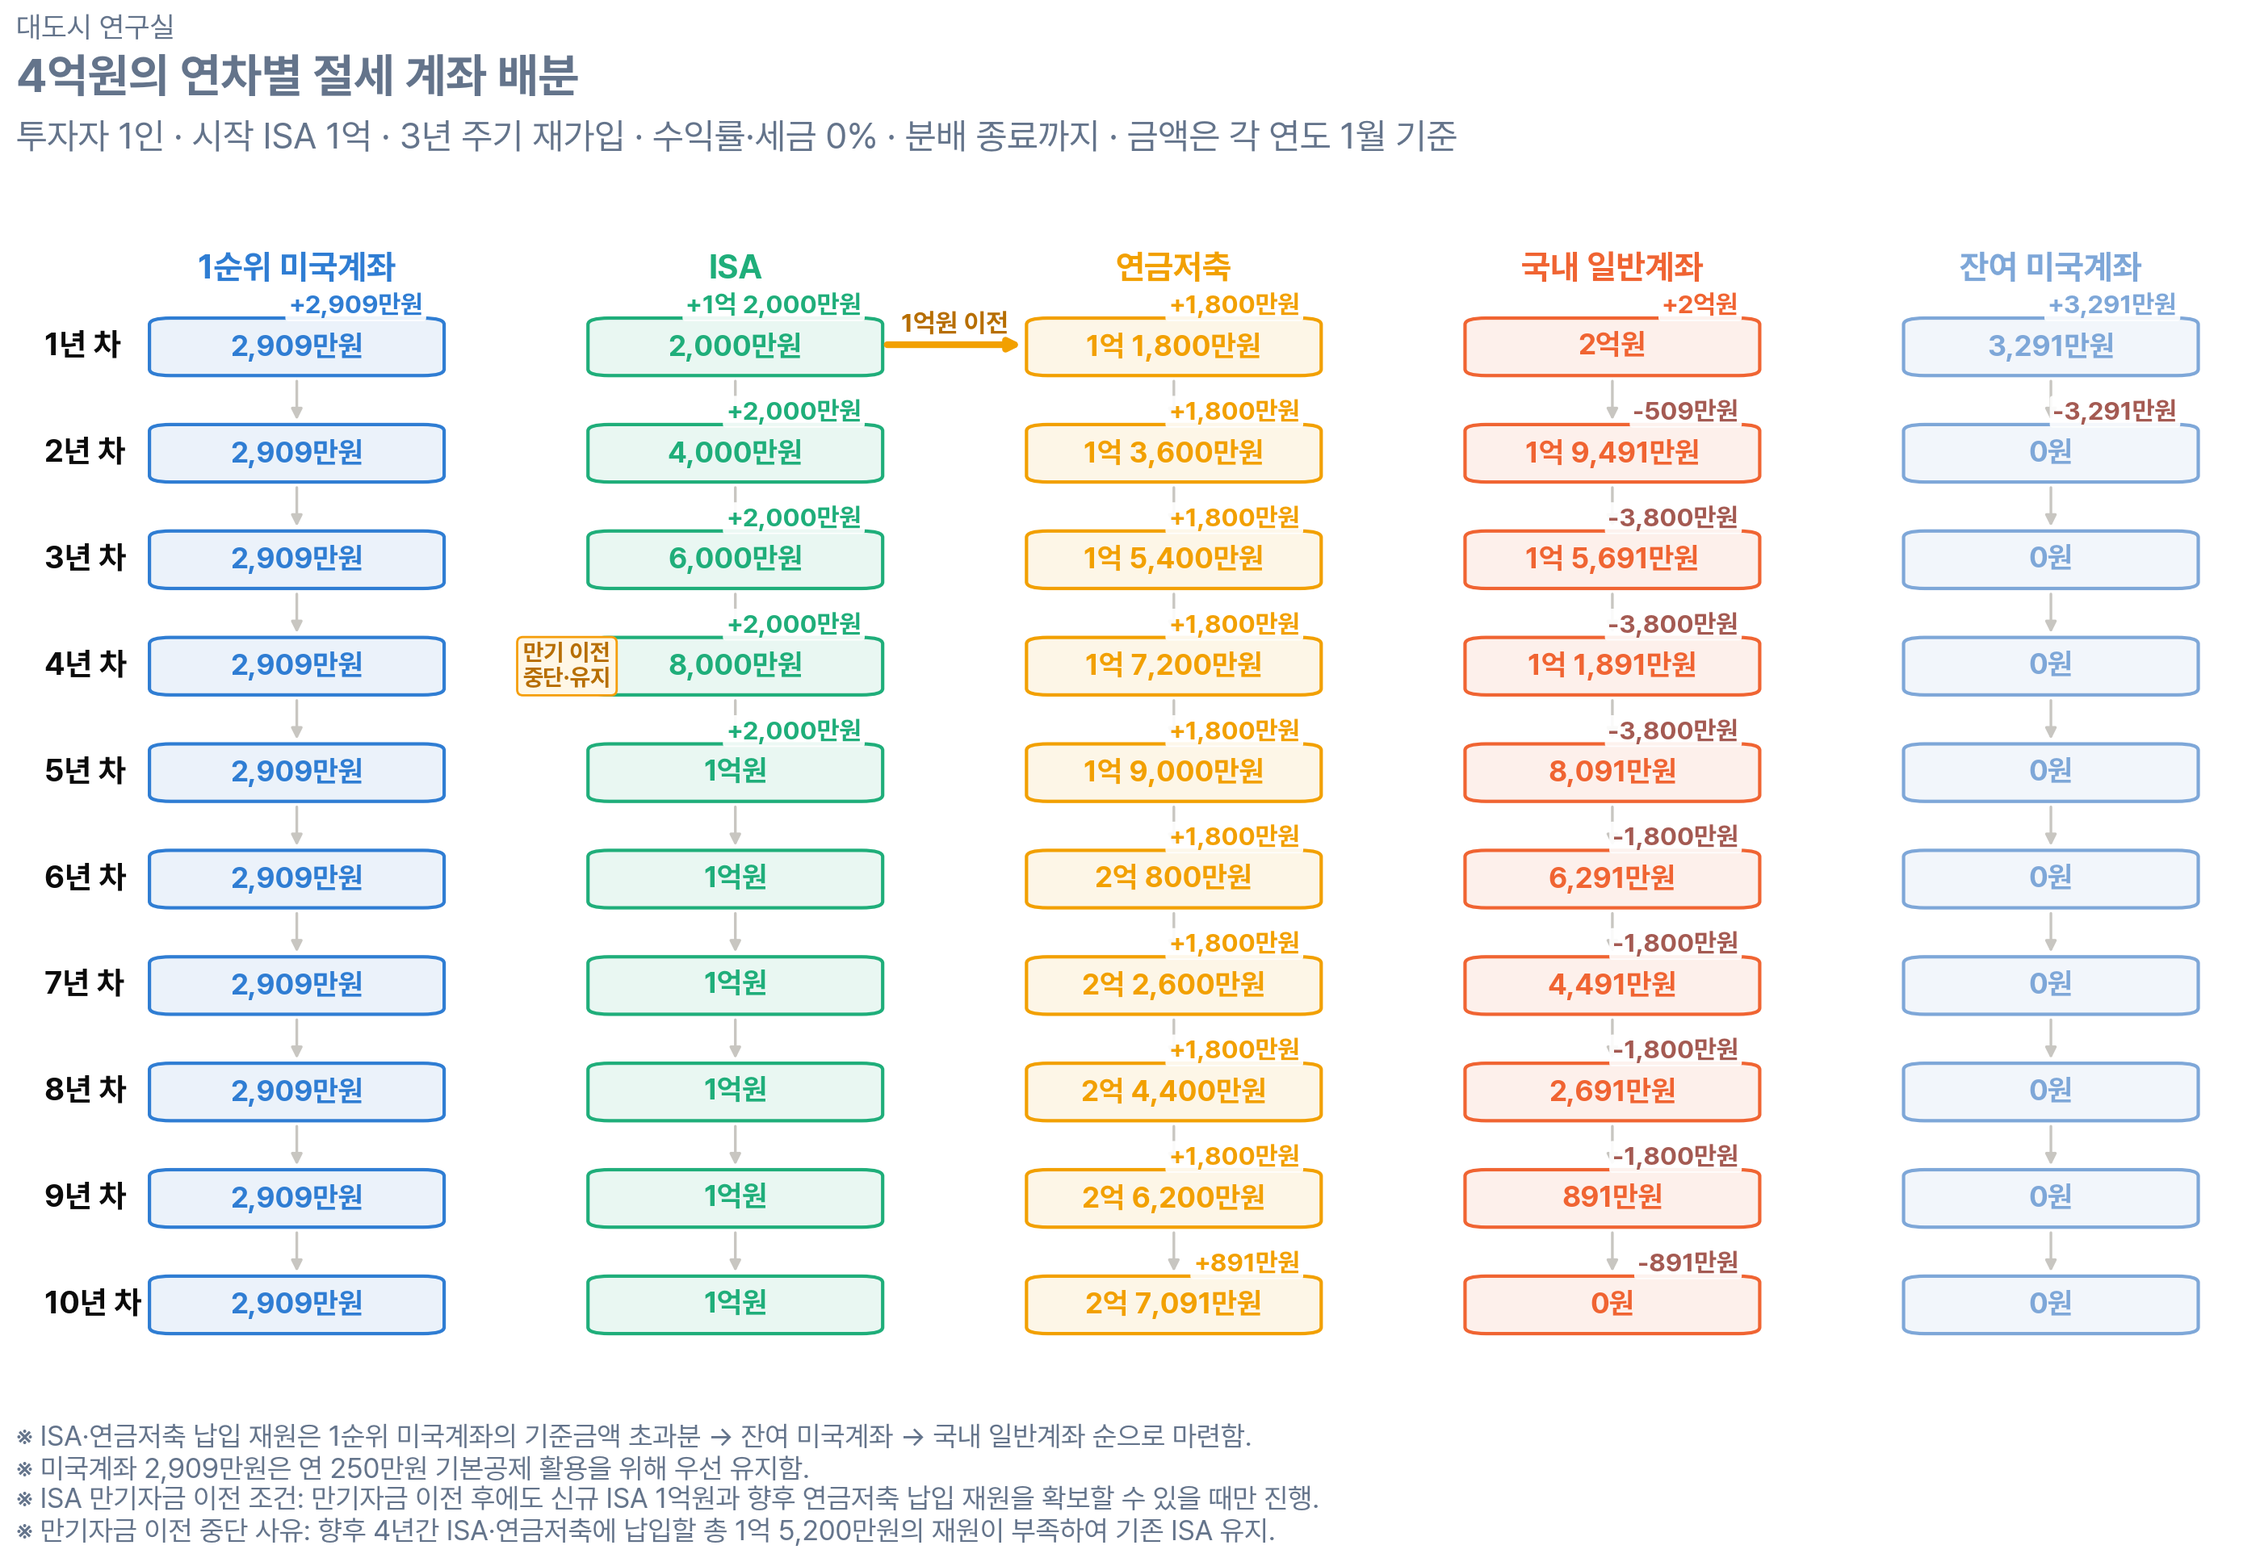
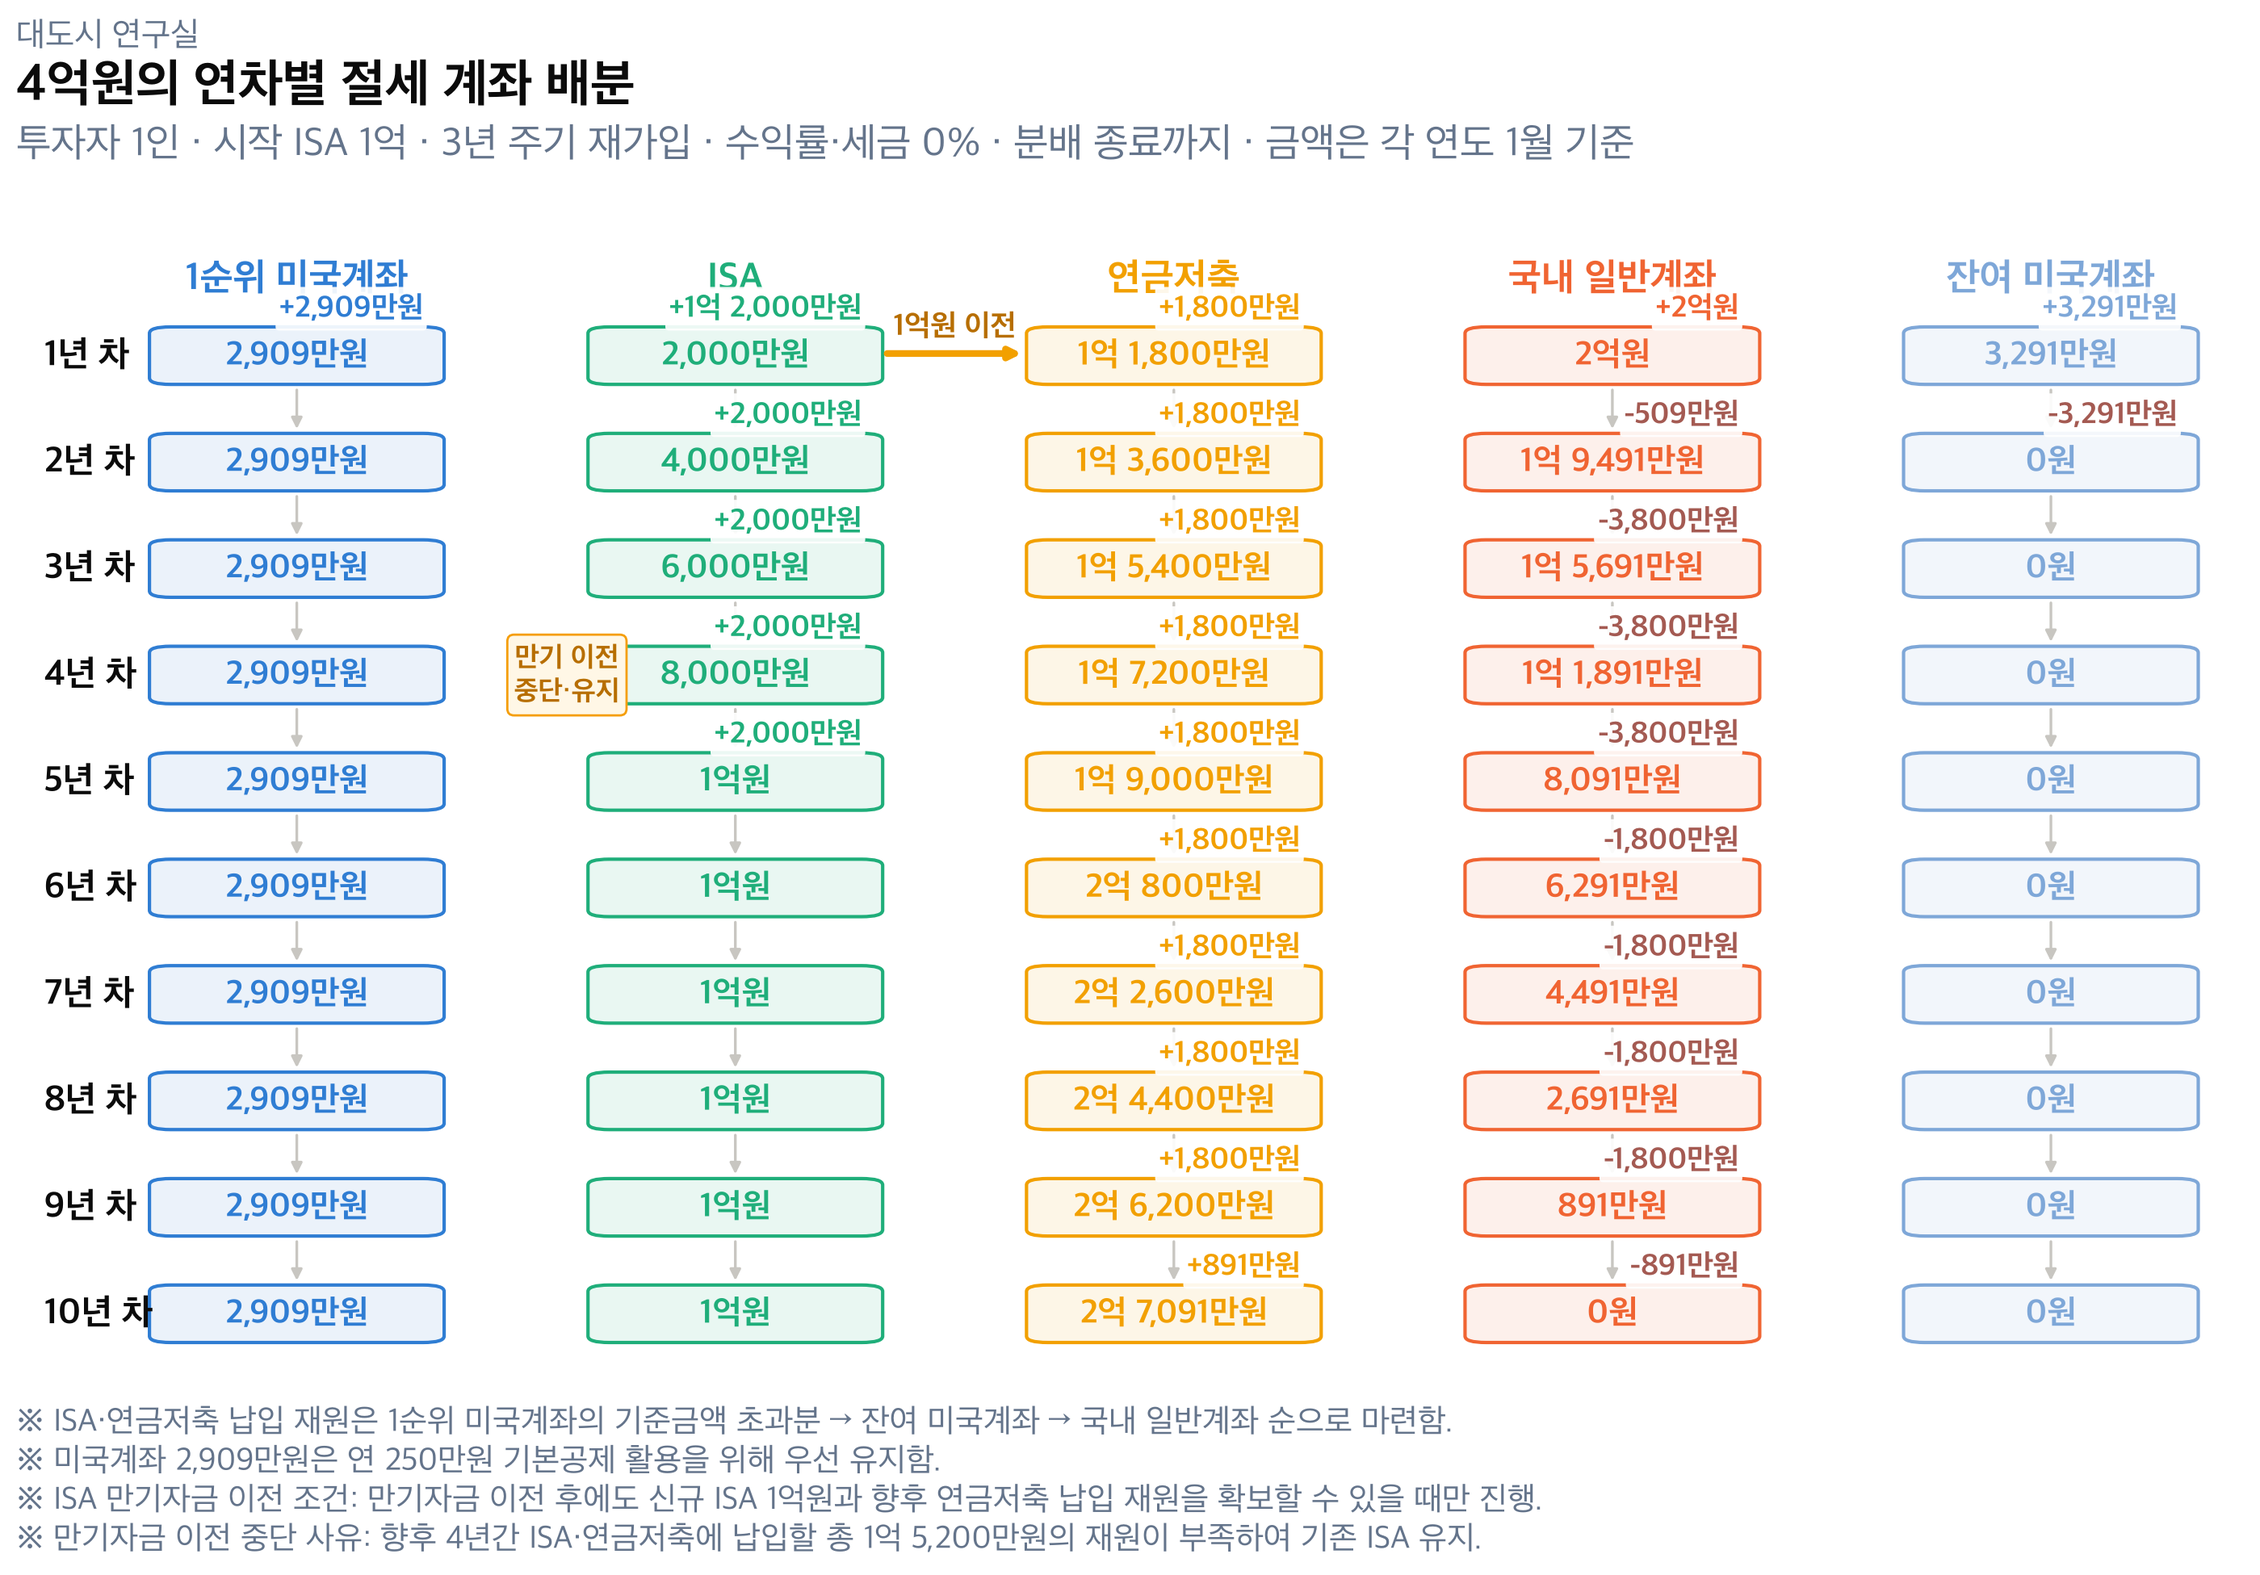
Refine ISA strategy visualizations

diff --git a/VISUALIZATION_STYLE_GUIDE.md b/VISUALIZATION_STYLE_GUIDE.md
@@ -39,16 +39,16 @@ FONT_CANDIDATES = (
 
 | 요소 | 크기 | 굵기 | 색상 |
 |---|---:|---|---|
-| 브랜드 라벨 (`대도시 연구실`) | 13pt | Regular | `#777777` |
+| 브랜드 라벨 (`대도시 연구실`) | 13pt | Regular | `#64748B` |
 | 전체 제목 | 21pt | Bold | `#0B0B0B` |
-| 부제 | 16pt | Regular | `#666666` |
+| 부제 | 16pt | Regular | `#64748B` |
 | 패널 제목 | 18pt | Bold | `#0B0B0B` |
 | X·Y축 제목 | 15pt | Regular | `#777777` |
 | X·Y축 눈금 | 15pt | Regular | `#777777` |
 | 범례 | 15pt | **Regular** | 기본 텍스트색 |
 | 막대 위 수치·선 끝 잔액·고갈 문구 | 14pt | Bold | 해당 데이터 색상 |
 | 기준선 직접 라벨 | 14pt | Regular | `#F59E0B` |
-| 하단 각주 | 13pt | Regular | `#777777` |
+| 하단 각주 | 13pt | Regular | `#64748B` |
 
 범례는 강조 대상이 아니므로 볼드를 사용하지 않는다. 핵심 데이터 라벨만 Bold로
 두어 시각적 위계를 만든다.
@@ -84,19 +84,18 @@ SURVIVAL_EDGE_COLOR = "#C5D9F4"
 BACKGROUND_COLOR = "#FFFFFF"
 GRID_COLOR = "#DEDCD6"
 TEXT_COLOR = "#0B0B0B"
-SECONDARY_TEXT_COLOR = "#666666"
+SECONDARY_TEXT_COLOR = "#64748B"
 TICK_COLOR = "#777777"
-FOOTNOTE_COLOR = "#777777"
+FOOTNOTE_COLOR = "#64748B"
 
 TABLE_HEADER_COLOR = "#2B4A75"
-TABLE_HEADER_RULE_COLOR = "#7FB3D5"
 TABLE_TEXT_COLOR = "#1E293B"
 TABLE_MUTED_TEXT_COLOR = "#64748B"
 TABLE_BORDER_COLOR = "#F0F2F5"
 TABLE_STRIPE_COLOR = "#FAFBFC"
 TABLE_HOVER_COLOR = "#EFF6FF"
-TABLE_SUMMARY_COLOR = "#E8EDF3"
-TABLE_SUMMARY_RULE_COLOR = "#94A3B8"
+TABLE_SUMMARY_COLOR = "#F1F4F8"
+TABLE_SUMMARY_RULE_COLOR = "#CBD5E1"
 ```
 
 색상의 의미:
@@ -128,6 +127,7 @@ TABLE_SUMMARY_RULE_COLOR = "#94A3B8"
 ```
 
 - 브랜드·제목·부제 세 줄은 한 덩어리로 보이도록 간격을 좁힌다.
+- 브랜드·부제·각주는 같은 청회색 `#64748B`, 제목은 검정 `#0B0B0B`을 사용한다.
 - 제목과 부제는 가깝게 두되 글자가 닿지 않게 한다.
 - 범례는 제목 영역과 그래프 사이에 두고 양쪽과 과도하게 떨어뜨리지 않는다.
 - 패널 제목은 전체 제목보다 작게 쓰며 그래프와 가깝게 둔다.
@@ -177,6 +177,10 @@ ax.legend(
 ```
 
 - 제목은 한 줄을 우선하며 중복되는 단어를 줄인다.
+- 비교 자료 제목은 `무엇을 보여주는가 | 무엇을 비교하는가` 형식을 우선한다.
+- 자료 유형이 이미 시각적으로 분명하면 제목 끝에 `표`, `그래프`, `차트`를 붙이지 않는다.
+- 한 세트로 사용하는 표와 그래프는 `ISA 운용 방식별 비교`처럼 비교 기준 문구를
+  완전히 같게 쓴다.
 - 축에는 문맥상 자연스러운 `잔액`을 우선한다.
 - 입력한 종목, 기간, 금액은 하드코딩하지 말고 동적으로 만든다.
 - `대도시 연구실`은 출처 각주가 아니라 상단 브랜드 라벨로 취급한다.
@@ -249,39 +253,66 @@ ax.annotate(
 )
 ```
 
-## 7. 표
+## 7. 연차별 자금 흐름도
 
-### 7.1 공통 레이아웃
+- 세로 방향은 시간의 흐름으로 고정하고, 연차별 같은 계좌 박스를 세로선으로 연결한다.
+- 가로 화살표는 실제 계좌 간 이전이 일어난 경우에만 사용한다. 정기 납입액을
+  계좌 사이 화살표로 표시해 자금 이동 방향처럼 보이게 하지 않는다.
+- 박스 중앙에는 해당 시점의 잔액을 크게 쓰고, 납입·인출·이전 금액은 박스 상단
+  모서리에 한 단계 작은 글씨로 표시한다.
+- 첫 시점에는 초기 배분액을 표시해 시작 잔액이 만들어진 이유를 설명한다.
+- 만기 이전처럼 중요한 이벤트는 출발 계좌에서 도착 계좌로 향하는 화살표와
+  `6,000만원 이전` 같은 금액 라벨로 표시한다.
+- 이동이 없는 연차는 숫자 변화만 보여주고 설명 문구와 화살표를 반복하지 않는다.
+- 계좌 종류는 일관된 색으로 구분한다. 같은 계좌의 우선 배분액과 잔여액은
+  진한색·연한색처럼 같은 색 계열을 사용한다.
+- 중단 조건이나 계산 가정은 본문 박스 안에 반복하지 말고 하단 각주로 설명한다.
+- 행 수는 고정 연도보다 사용자가 선택한 종료 조건이나 자금 분배 종료 시점에서
+  동적으로 결정한다.
+
+## 8. 표
+
+### 8.1 공통 레이아웃
 
 - 표는 최대 너비 `700px`의 래퍼에 넣으며, 열이 많아도 이 기준을 늘리지 않는다.
 - 같은 표에 속한 제목, 캡션, 표 래퍼와 각주는 모두 `max-width: 700px`로
-  통일한다. 열이 넘치면 래퍼의 가로 스크롤로 표시한다.
-- 래퍼는 `overflow-x: auto`, 흰 배경, `1px` 연한 테두리, `12px` 모서리를 사용한다.
-- 표 너비는 `100%`, `border-collapse: separate`, `border-spacing: 0`으로 한다.
+  통일한다.
+- 블로그 캡처용 핵심 표는 가로 스크롤이 생기지 않게 열 수와 안쪽 여백을 먼저
+  조정한다. 글자 크기를 줄이는 것은 마지막 수단이다.
+- 래퍼는 `overflow: hidden`, 흰 배경, `1px` 연한 테두리, `12px` 모서리를 사용한다.
+- 표 너비는 `100%`, `table-layout: fixed`, `border-collapse: separate`,
+  `border-spacing: 0`으로 한다.
+- 제목·부제·표·각주의 왼쪽 기준선을 맞춘다. 표 폭을 유지한 채 정렬해야 할 때는
+  표 시작점만 옮기고 표 자체를 늘리지 않는다.
 - 과한 그림자는 사용하지 않는다.
 - 블로그 표에는 판단에 필요한 핵심 열만 남기고 상세 데이터는 CSV로 분리한다.
+- 노트북에서 완성된 HTML 표를 직접 캡처할 계획이면 별도의 Matplotlib 표 PNG나
+  브라우저 자동 캡처 코드를 중복 구현하지 않는다.
 
-### 7.2 글꼴과 정렬
+### 8.2 글꼴과 정렬
 
 | 요소 | 크기 | 굵기 | 색상 | 기본 여백 |
 |---|---:|---:|---|---|
-| 표 제목 | 20px | 700 | `#0F172A` | `30px 0 8px` |
-| 표 캡션 | 13px | 400 | `#64748B` | `0 0 10px` |
-| 표 헤더 | 13px | 700 | 흰색 | `8px 12px` |
-| 표 본문 | 13px | 400 | `#1E293B` | `7px 12px` |
+| 브랜드 라벨 | 13px | 400 | `#64748B` | `0 0 5px` |
+| 표 제목 | 20px | 700 | `#0F172A` | `0 0 4px` |
+| 표 캡션 | 13px | 400 | `#64748B` | `0 0 14px` |
+| 표 헤더 | 13px | 700 | 흰색 | `11px 3px` |
+| 표 본문 | 13px | 400 | `#1E293B` | `11px 3px` |
 
 - 숫자는 `font-variant-numeric: tabular-nums`와 오른쪽 정렬을 사용한다.
 - 표 캡션은 하단 각주와 같은 `13px`를 사용해 보조 설명의 가독성을
   일관되게 유지한다.
-- 시작연도·사례명 등 행 식별 열은 가운데 정렬한다.
+- 시작연도는 가운데, 설명형 행 이름은 왼쪽 정렬한다.
 - 요약표의 식별 열은 필요할 때 `font-weight: 600`으로 강조한다.
 - 금액 열을 관성적으로 Bold 처리하지 않는다.
 - 음수 또는 고갈 금액을 강조할 때만 `#F06432`를 사용할 수 있다.
 
-### 7.3 행과 요약값
+### 8.3 행과 요약값
 
-- 헤더는 `#2B4A75`, 흰 글자, 아래 `2px solid #7FB3D5`를 사용한다.
+- 헤더는 `#2B4A75`, 흰 글자를 사용한다.
 - 본문 구분선은 `1px solid #F0F2F5`, 짝수 행은 `#FAFBFC`를 사용한다.
+- 최종 결과·차이·실효세율처럼 결론을 이루는 연속 행은 `#F1F4F8`로 묶고,
+  첫 결론 행 위에 `2px solid #CBD5E1` 구분선을 둔다.
 - 노트북에서는 hover와 sticky header를 쓸 수 있지만 정적 캡처가 없어도 읽혀야 한다.
 - 합계, 평균, 생존율은 실제로 필요한 행만 표 마지막에 둔다.
 - 강조 여부는 자료 목적에 따라 결정하되, 동일한 요약 행끼리는 같은 굵기를 사용한다.
@@ -301,18 +332,19 @@ table_html = display_table[DISPLAY_COLUMNS].to_html(
 )
 ```
 
-### 7.4 재사용 CSS
+### 8.4 재사용 CSS
 
 ```css
 .table-wrap {
     max-width: 700px;
     margin: 12px 0 28px;
-    overflow-x: auto;
+    overflow: hidden;
     border: 1px solid #f0f2f5;
     border-radius: 12px;
 }
 .result-table {
     width: 100%;
+    table-layout: fixed;
     border-collapse: separate;
     border-spacing: 0;
     font-family: Pretendard, -apple-system, BlinkMacSystemFont, "Segoe UI", sans-serif;
@@ -321,15 +353,14 @@ table_html = display_table[DISPLAY_COLUMNS].to_html(
     color: #1e293b;
 }
 .result-table th {
-    padding: 8px 12px;
+    padding: 11px 3px;
     background: #2b4a75;
-    border-bottom: 2px solid #7fb3d5;
     color: white;
     font-weight: 700;
     white-space: nowrap;
 }
 .result-table td {
-    padding: 7px 12px;
+    padding: 11px 3px;
     border-bottom: 1px solid #f0f2f5;
     background: white;
     white-space: nowrap;
@@ -338,19 +369,26 @@ table_html = display_table[DISPLAY_COLUMNS].to_html(
 .result-table tbody tr:last-child td { border-bottom: 0; }
 .result-table .number { text-align: right; }
 .result-table .identifier { text-align: center; }
+.result-table .row-label { text-align: left; }
 .result-table .depleted { color: #f06432; }
+.result-table .summary-row th,
 .result-table .summary-row td {
-    background: #e8edf3;
-    border-top: 2px solid #94a3b8;
+    background: #f1f4f8;
+    border-top: 2px solid #cbd5e1;
 }
 ```
 
-## 8. 이미지 저장
+## 9. 이미지 저장
 
-- PNG와 `dpi=200`을 기본값으로 사용한다.
+- Matplotlib 그래프는 PNG와 `dpi=200`을 기본값으로 사용한다.
 - 배경색을 명시하고 `bbox_inches="tight"`로 잘림을 방지한다.
 - 그림 크기를 키우는 것만으로 글자를 작게 만들지 않는다. 블로그 축소를 고려해
   이 가이드의 절대 글자 크기를 유지한다.
+- HTML 표는 노트북 화면에서 직접 캡처하는 방식을 우선한다. 표 이미지 한 장을
+  만들기 위해 대용량 브라우저 런타임을 자동 설치하거나, 같은 표를 Matplotlib로
+  다시 그리는 코드를 추가하지 않는다.
+- 표 캡처가 필요하면 CSS 기준 너비 `700px`을 유지하고, 고해상도 화면의 원본을
+  축소 저장하지 않은 채 업로드한다.
 
 ```python
 fig.savefig(
@@ -361,7 +399,7 @@ fig.savefig(
 )
 ```
 
-## 9. 구현 순서
+## 10. 구현 순서
 
 새 그래프나 표는 다음 순서로 만든다.
 
@@ -370,20 +408,21 @@ fig.savefig(
 3. 제목·부제·축·범례 문구를 입력값에서 생성한다.
 4. 그래프 또는 표시용 표를 만든다.
 5. 데이터 라벨의 중심 정렬과 겹침을 확인한다.
-6. PNG를 저장하고 실제 블로그 표시 크기로 축소해 확인한다.
+6. 그래프는 PNG를 저장하고, HTML 표는 실제 노트북 화면에서 캡처 상태를 확인한다.
 7. 특별한 예외 좌표나 중복 스타일 값이 남았는지 정리한다.
 
 프로젝트마다 상수 이름을 새로 만들기보다 이 문서의 이름과 값을 그대로 재사용한다.
 같은 노트북에서 여러 그래프를 만들면 공통 제목 영역, 축 스타일, 저장 로직을
 작은 함수로 공유하되 한 줄짜리 래퍼를 과도하게 만들지 않는다.
 
-## 10. 최종 점검
+## 11. 최종 점검
 
 ### 글꼴과 배치
 
 - [ ] Pretendard 또는 지정한 대체 글꼴이 적용됐는가?
 - [ ] 브랜드 13, 제목 21, 부제 16pt가 적용됐는가?
 - [ ] 축과 범례 15, 데이터 라벨 14, 각주 13pt가 적용됐는가?
+- [ ] 제목은 검정, 브랜드·부제·각주는 청회색 `#64748B`인가?
 - [ ] 범례가 Regular이며 데이터 라벨만 Bold인가?
 - [ ] 브랜드·제목·부제의 간격이 한 묶음처럼 보이는가?
 
@@ -397,7 +436,9 @@ fig.savefig(
 
 ### 표와 문구
 
-- [ ] 숫자 열은 오른쪽, 식별 열은 가운데 정렬됐는가?
+- [ ] 숫자 열은 오른쪽, 시작연도처럼 짧은 식별 열은 가운데 정렬됐는가?
+- [ ] 설명형 행 이름은 왼쪽 정렬됐는가?
+- [ ] 표가 700px 안에서 가로 스크롤 없이 표시되는가?
 - [ ] 계산용 숫자와 표시용 문자열이 분리됐는가?
 - [ ] 유지·고갈·기간·생존율 문구가 일관적인가?
 - [ ] 요약 행과 색상 강조가 꼭 필요한 곳에만 사용됐는가?
@@ -405,6 +446,7 @@ fig.savefig(
 
 ### 출력
 
-- [ ] PNG가 200dpi, 흰 배경으로 저장됐는가?
+- [ ] 그래프 PNG가 200dpi, 흰 배경으로 저장됐는가?
 - [ ] 제목, 범례, 라벨, 각주가 잘리지 않았는가?
 - [ ] 블로그에 축소해서도 모든 핵심 숫자를 읽을 수 있는가?
+- [ ] 직접 캡처할 HTML 표에 불필요한 별도 이미지 생성 코드가 없는가?
